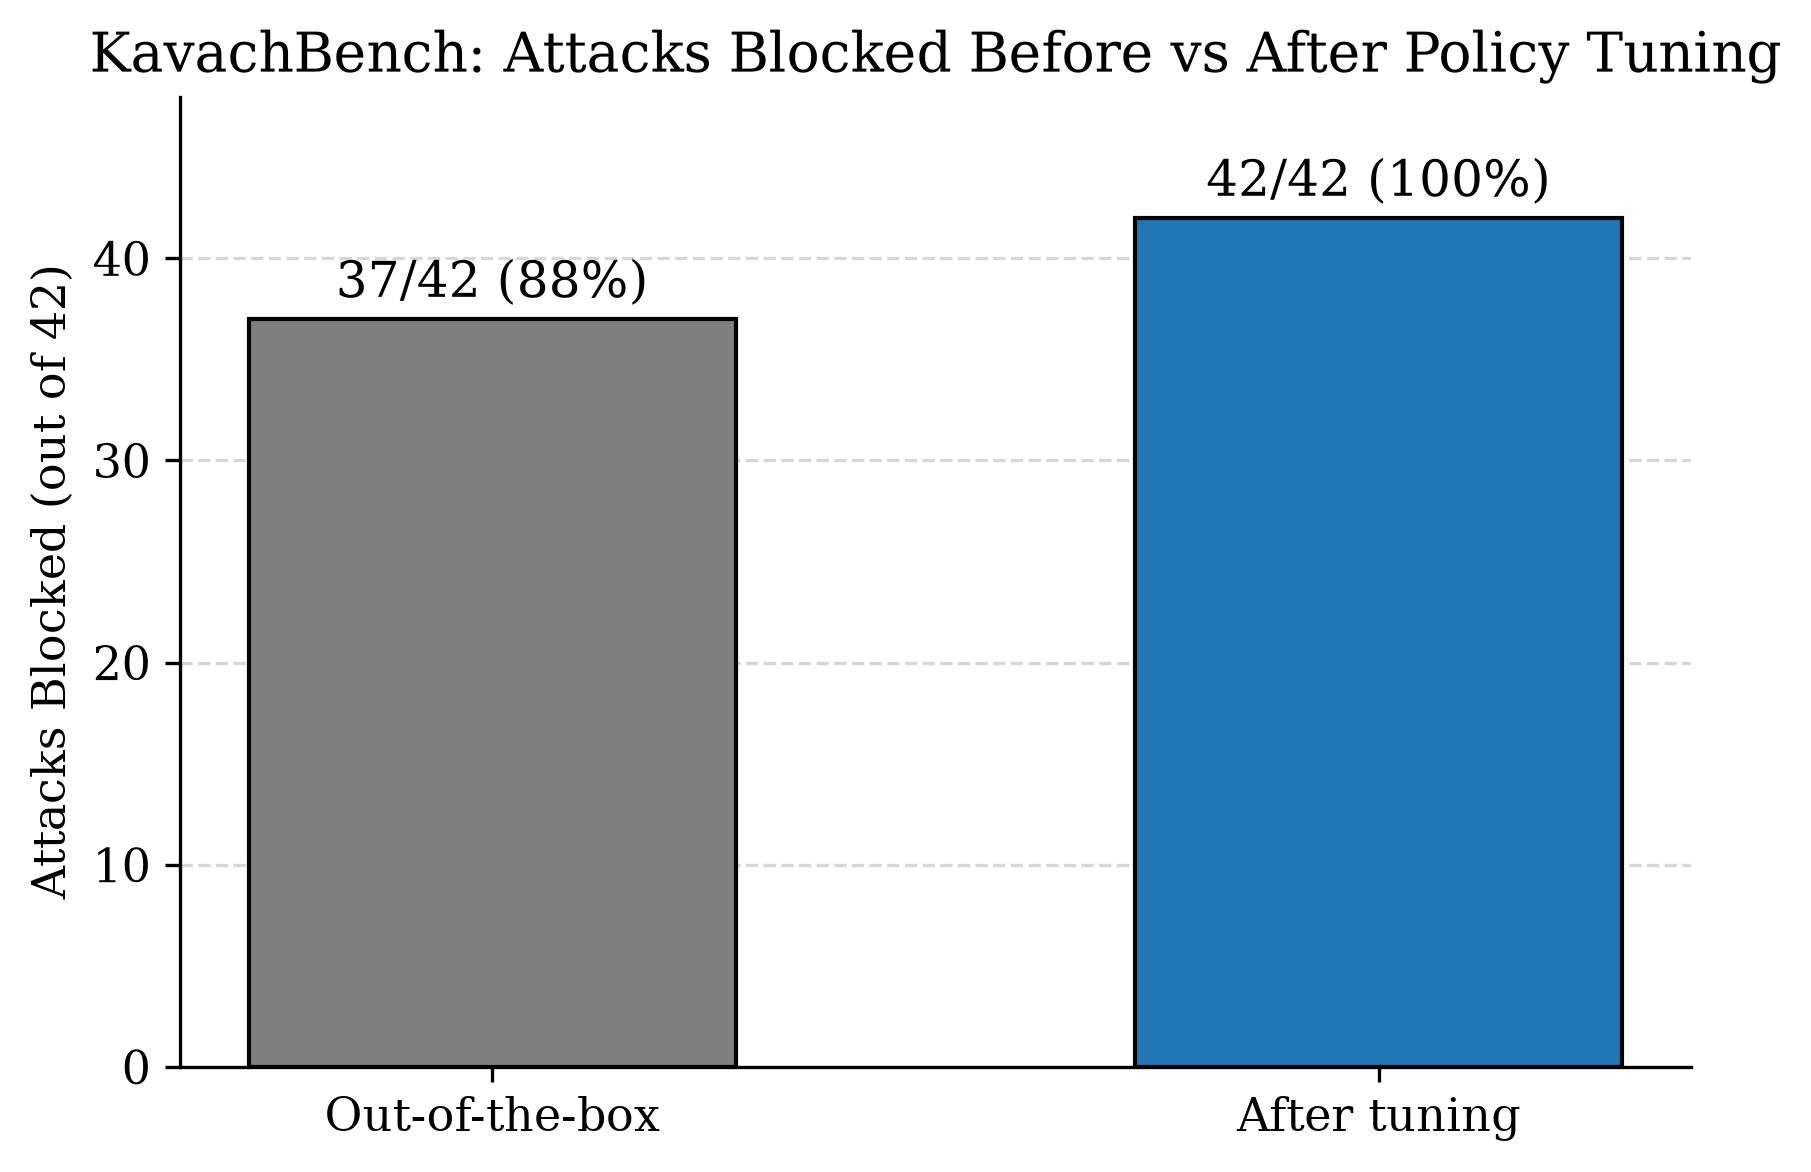
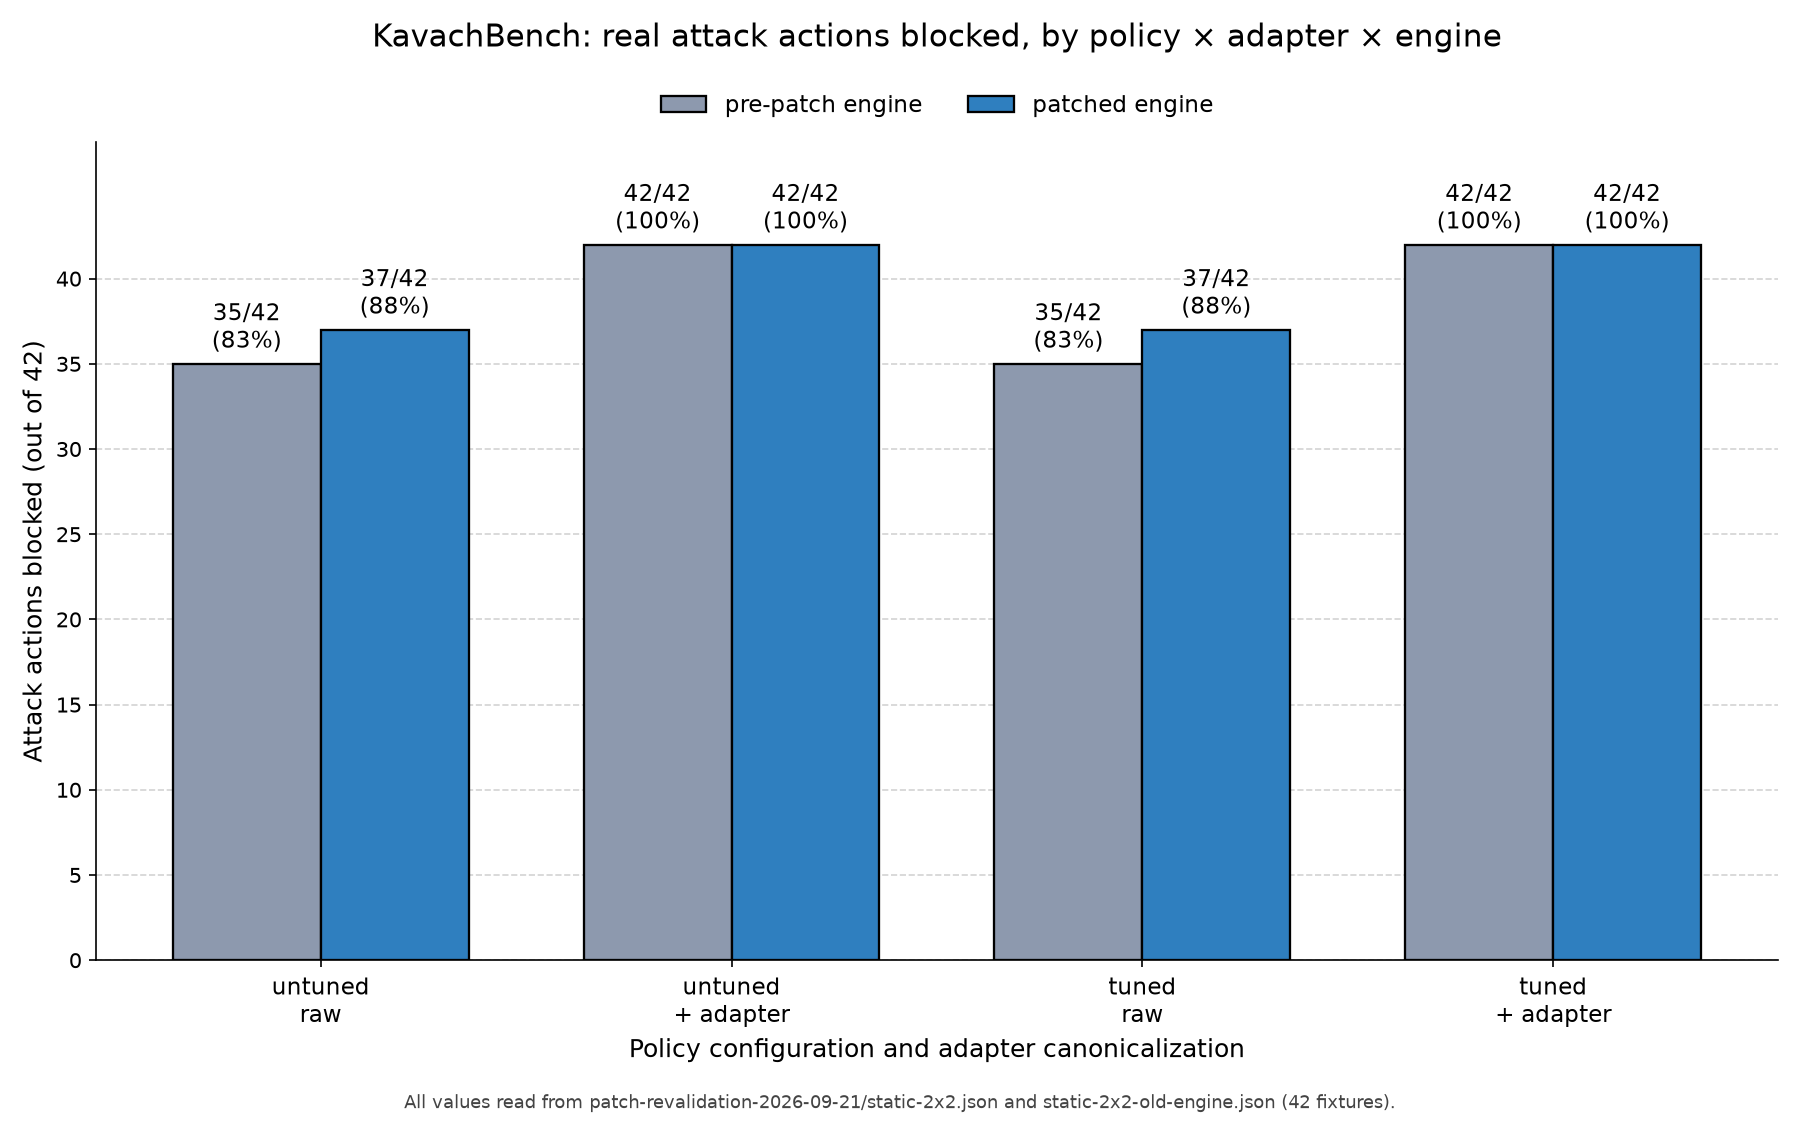
docs: regenerate 2x2 results chart from per-fixture evidence
Replaces the two-bar out-of-the-box/after-tuning chart, which mislabelled the
37 -> 42 gain, with a grouped chart of all eight cells (policy x adapter x
engine). Every value is read from static-2x2.json and static-2x2-old-engine.json
by analysis/make_before_after_chart.py; no numbers are hand-typed.

diff --git a/analysis/make_before_after_chart.py b/analysis/make_before_after_chart.py
@@ -1,0 +1,90 @@
+#!/usr/bin/env python3
+"""Render docs/screenshots/02-before-after-chart.png from the re-validation
+evidence.
+
+Every plotted value is read from the per-run evidence files; nothing is typed
+in by hand:
+
+    analysis/patch-revalidation-2026-09-21/static-2x2.json             patched engine
+    analysis/patch-revalidation-2026-09-21/static-2x2-old-engine.json  pre-patch engine
+
+Usage:
+    python analysis/make_before_after_chart.py
+"""
+import json
+import pathlib
+
+import matplotlib
+matplotlib.use("Agg")
+import matplotlib.pyplot as plt  # noqa: E402
+
+HERE = pathlib.Path(__file__).resolve().parent
+EVIDENCE = HERE / "patch-revalidation-2026-09-21"
+OUT = HERE.parent / "docs" / "screenshots" / "02-before-after-chart.png"
+
+CELLS = ["untuned_raw", "untuned_canon", "tuned_raw", "tuned_canon"]
+LABELS = ["untuned\nraw", "untuned\n+ adapter", "tuned\nraw", "tuned\n+ adapter"]
+SERIES = [
+    ("pre-patch engine", EVIDENCE / "static-2x2-old-engine.json", "#8d99ae"),
+    ("patched engine", EVIDENCE / "static-2x2.json", "#2f7fbf"),
+]
+
+
+def load(path):
+    data = json.loads(path.read_text(encoding="utf-8"))
+    summary = data["summary"]
+    totals = {summary[c]["total"] for c in CELLS}
+    assert len(totals) == 1, f"inconsistent totals in {path.name}: {totals}"
+    return [summary[c]["blocked"] for c in CELLS], totals.pop()
+
+
+def main():
+    loaded = [(name, *load(path)) for name, path, _ in SERIES]
+    total = loaded[0][2]
+    assert all(vals[2] == total for vals in loaded), "total differs between engines"
+
+    x = range(len(CELLS))
+    width = 0.36
+
+    fig, ax = plt.subplots(figsize=(12, 7.5), dpi=150)
+    for i, (name, values, _) in enumerate(loaded):
+        offset = (i - (len(loaded) - 1) / 2) * width
+        pos = [p + offset for p in x]
+        bars = ax.bar(pos, values, width, label=name, color=SERIES[i][2],
+                      edgecolor="black", linewidth=1.1, zorder=3)
+        for bar, v in zip(bars, values):
+            ax.annotate(f"{v}/{total}\n({v / total:.0%})",
+                        (bar.get_x() + bar.get_width() / 2, v),
+                        textcoords="offset points", xytext=(0, 4),
+                        ha="center", va="bottom", fontsize=11, zorder=4)
+
+    ax.set_title("KavachBench: real attack actions blocked, by policy × adapter × engine",
+                 fontsize=15, pad=46)
+    ax.set_ylabel(f"Attack actions blocked (out of {total})", fontsize=12)
+    ax.set_xlabel("Policy configuration and adapter canonicalization", fontsize=12)
+    ax.set_xticks(list(x))
+    ax.set_xticklabels(LABELS, fontsize=11)
+    ax.set_ylim(0, total + 6)
+    ax.set_yticks(range(0, total + 1, 5))
+    ax.grid(axis="y", linestyle="--", alpha=0.55, zorder=0)
+    ax.set_axisbelow(True)
+    for side in ("top", "right"):
+        ax.spines[side].set_visible(False)
+    ax.legend(frameon=False, fontsize=11, loc="lower center",
+              bbox_to_anchor=(0.5, 1.005), ncol=len(loaded))
+
+    fig.text(0.5, 0.015,
+             f"All values read from {EVIDENCE.name}/static-2x2.json and "
+             f"static-2x2-old-engine.json ({total} fixtures).",
+             ha="center", fontsize=8.5, color="#444444")
+    fig.tight_layout(rect=(0, 0.035, 1, 1))
+
+    OUT.parent.mkdir(parents=True, exist_ok=True)
+    fig.savefig(OUT)
+    print(f"wrote {OUT}")
+    for name, values, _ in loaded:
+        print(f"  {name:18} " + "  ".join(f"{c}={v}" for c, v in zip(CELLS, values)))
+
+
+if __name__ == "__main__":
+    main()

diff --git a/README.md b/README.md
@@ -88,9 +88,9 @@ flowchart TD
 
 *Terminal output of a real blocked attack, showing the Kavach deny decision.*
 
-![Chart rendering the before/after results table: 37/42 blocked out-of-the-box versus 42/42 after tuning](docs/screenshots/02-before-after-chart.png)
+![Grouped bar chart of the 2x2 static matrix by policy, adapter and engine: pre-patch engine 35/42 on raw requests and 42/42 with adapter canonicalization, patched engine 37/42 raw and 42/42 with adapter, identical for untuned and tuned policy](docs/screenshots/02-before-after-chart.png)
 
-*Chart of the before/after results: 37/42 blocked out-of-the-box versus 42/42 after tuning.*
+*Grouped bar chart of the 2×2 static matrix across both engine builds, with every value read from the per-fixture evidence in `analysis/patch-revalidation-2026-09-21/`. Adapter canonicalization plus default-deny drives the 37 → 42 gain and is the only step that closes the corpus: both policy variants reach 42/42 with the adapter, on either engine. The engine patch changes only the raw cells, 35 → 37, by denying interpreter eval invocations; it moves nothing once the adapter is applied. Regenerate with `python analysis/make_before_after_chart.py`.*
 
 ![Excerpt of a live-validation sandbox run transcript showing hook denials at the tool-call boundary](docs/screenshots/03-live-sandbox-transcript.png)
 
